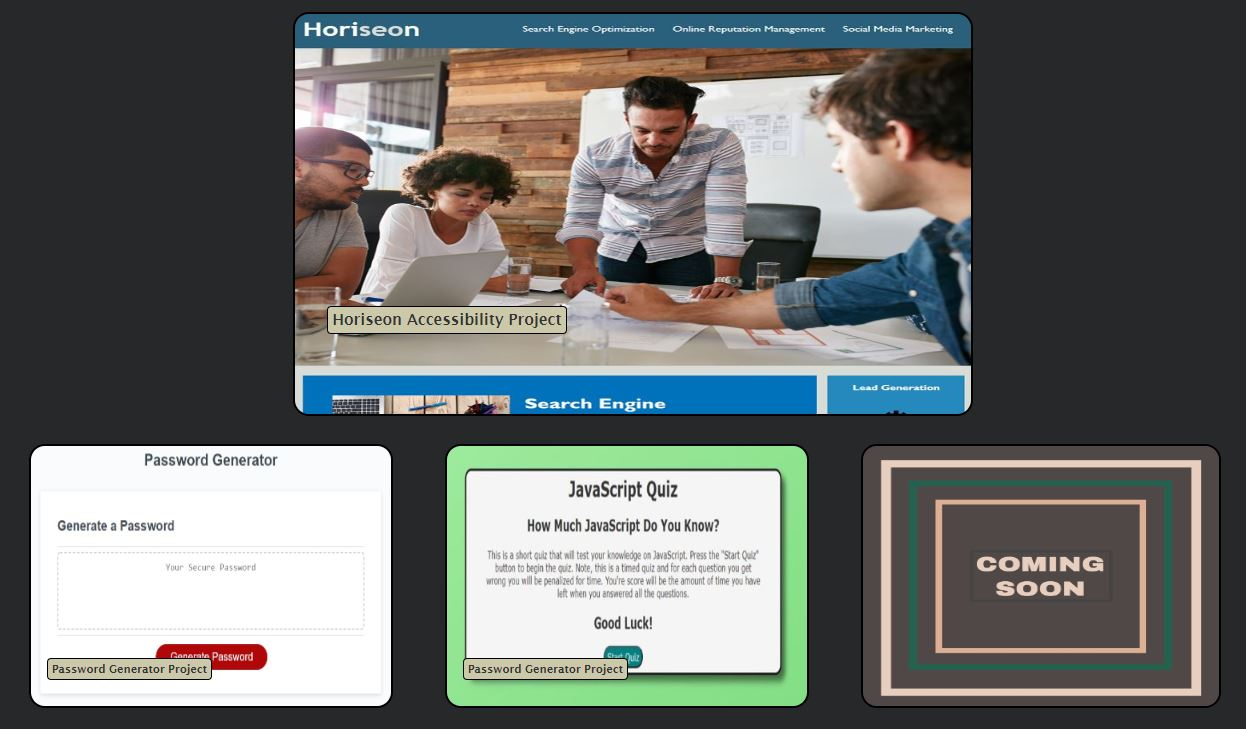
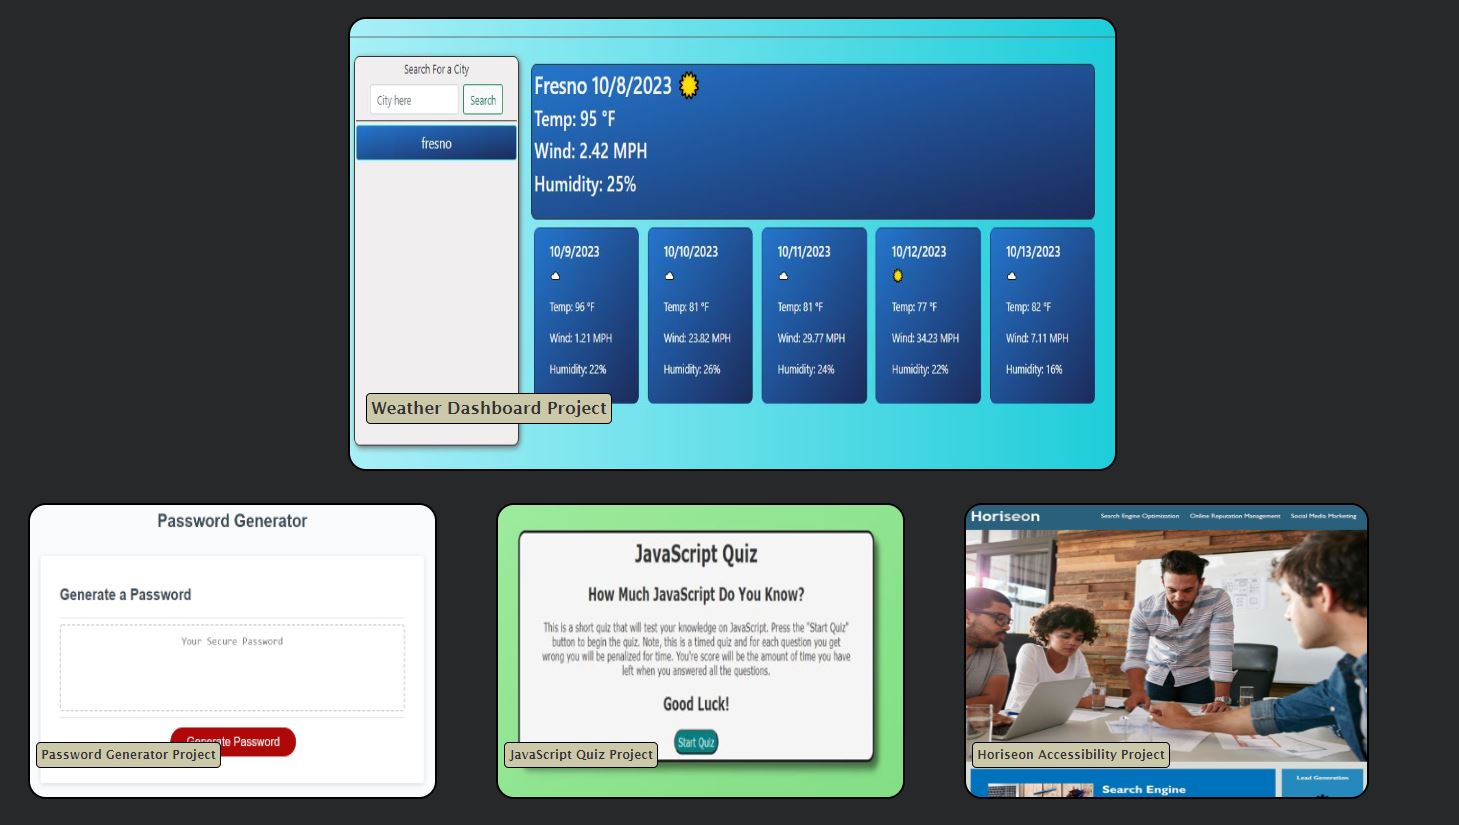
updated project section and readme. Added new images to use

diff --git a/index.html b/index.html
@@ -1,71 +1,147 @@
 <!DOCTYPE html>
 <html lang="en">
-<head>
-    <meta charset="UTF-8">
-    <meta name="viewport" content="width=device-width, initial-scale=1.0">
+  <head>
+    <meta charset="UTF-8" />
+    <meta name="viewport" content="width=device-width, initial-scale=1.0" />
     <title>Jorge's Portfolio</title>
-    <link rel="stylesheet" href="./assets/css/style.css"/>
-</head>
-<body>
-    <button> <a href="#">Back To Top</a></button>
-   <header class="top-header">
-    <div class="header-left">
-    <h1>Jorge Castro</h1>
-    <h2>UC Berkeley Student</h2>
-    </div>
-    <nav>
-            <a href="#about-me">About Me</a> 
-            <a href="#projects">Projects</a> 
-            <a href="#contact-me">Contact Me</a> 
-    </nav>
-</header>
-<div class="intro-images">
-    <img class="cover-pic" src="./assets/images/background-photo.jpg" alt="Image of Green technology graphic in a wave motion"/>
-    <img class="profile-pic" src="./assets/images/portfolio pic.jpg" alt="Profile picture of Jorge Castro"/>
-</div> 
-<section id="about-me" class="about-me">
-    <h3>About Me</h3>
-    <article>
-        <p> I am a motivated and determined 26-year-old, eager to learn. I have developed a strong affinity for web development and am committed to learning as much as I can to build my skill set in tech. I have successfully obtained my Cloud Solution Architect Associate Certification from AWS (Amazon Web Services). Fueled by my desire to learn, I am currently attending a Full Stack Engineering Bootcamp at UC Berkeley to enhance my capabilities. I am on an exciting journey to dive headfirst into the world of technology. I am a quick and efficient learner, always eager to take on new challenges and put my new skills to the test. My ultimate goal is to channel my expertise and creativity to achieve a fulfilling career in tech. I am eager to see where this next chapter of my life will take me. </p>
-    </article>
-</section>
-<section id="projects" class="project">
-    <header class="section-header">
-    <h3>Projects</h3>
+    <link rel="stylesheet" href="./assets/css/style.css" />
+  </head>
+  <body>
+    <button><a href="#">Back To Top</a></button>
+    <header class="top-header">
+      <div class="header-left">
+        <h1>Jorge Castro</h1>
+        <h2>UC Berkeley Student</h2>
+      </div>
+      <nav>
+        <a href="#about-me">About Me</a>
+        <a href="#projects">Projects</a>
+        <a href="#contact-me">Contact Me</a>
+      </nav>
     </header>
-    <div class="vertical-line"></div>
-    <div class="project-links">
+    <div class="intro-images">
+      <img
+        class="cover-pic"
+        src="./assets/images/background-photo.jpg"
+        alt="Image of Green technology graphic in a wave motion"
+      />
+      <img
+        class="profile-pic"
+        src="./assets/images/portfolio pic.jpg"
+        alt="Profile picture of Jorge Castro"
+      />
+    </div>
+    <section id="about-me" class="about-me">
+      <h3>About Me</h3>
+      <article>
+        <p>
+          I am a motivated and determined 26-year-old, eager to learn. I have
+          developed a strong affinity for web development and am committed to
+          learning as much as I can to build my skill set in tech. I have
+          successfully obtained my Cloud Solution Architect Associate
+          Certification from AWS (Amazon Web Services). Fueled by my desire to
+          learn, I am currently attending a Full Stack Engineering Bootcamp at
+          UC Berkeley to enhance my capabilities. I am on an exciting journey to
+          dive headfirst into the world of technology. I am a quick and
+          efficient learner, always eager to take on new challenges and put my
+          new skills to the test. My ultimate goal is to channel my expertise
+          and creativity to achieve a fulfilling career in tech. I am eager to
+          see where this next chapter of my life will take me.
+        </p>
+      </article>
+    </section>
+    <section id="projects" class="project">
+      <header class="section-header">
+        <h3>Projects</h3>
+      </header>
+      <div class="vertical-line"></div>
+      <div class="project-links">
         <div class="fir-pro">
-        <a class="fir-pro-img" href="https://jacastro619.github.io/horiseon-accessibility-project/"><img class="horiseon" src="./assets/images/horiseon-project.JPG"/ alt="Screenshot of Horiseon refactoring project"><h3 class="horiseon-title">Horiseon Accessibility Project</h3></a>
-        </div>    
-        <a class="pro-img" href="https://jacastro619.github.io/password-generator/"><img class="password" src="./assets/images/password project.jpg" alt="Placholder image displaying coming soon"/><h3 class="title">Password Generator Project</h3></a> 
+          <a
+            class="fir-pro-img"
+            href="https://jacastro619.github.io/weather-dashboard/"
+            ><img
+              class="weather-dashboard"
+              src="./assets/images/weather dashboard.JPG"
+              alt="Screenshot of weather dashboard project"
+            />
+            <h3 class="fir-pro-title">Weather Dashboard Project</h3></a
+          >
+        </div>
+        <a
+          class="pro-img"
+          href="https://jacastro619.github.io/password-generator/"
+          ><img
+            class="sec-pro-img"
+            src="./assets/images/password project.jpg"
+            alt="Screenshot of password generator project"
+          />
+          <h3 class="title">Password Generator Project</h3></a
+        >
 
-        <a class="pro-img" href="https://jacastro619.github.io/javascript-quiz/"><img class="js-quiz" src="./assets/images/quiz card screenshot.JPG" alt="Placholder image displaying coming soon"/><h3 class="title">Password Generator Project</h3></a>
+        <a class="pro-img" href="https://jacastro619.github.io/javascript-quiz/"
+          ><img
+            class="sec-pro-img"
+            src="./assets/images/quiz card screenshot.JPG"
+            alt="JavaScript quiz screenshot"
+          />
+          <h3 class="title">JavaScript Quiz Project</h3></a
+        >
 
-        <a class="pro-img" href="#"><img class="coming-soon" src="./assets/images/Placeholder-image.png" alt="Placholder image displaying coming soon"/></a>
+        <a
+          class="pro-img"
+          href="https://jacastro619.github.io/work-day-planner/"
+          ><img
+            class="sec-pro-img"
+            src="./assets/images/day planner.JPG"
+            alt="Work day planner screenshot"
+          />
+          <h3 class="title">Work Day Planner Project</h3></a
+        >
 
-        <a class="pro-img" href="#"><img class="coming-soon" src="./assets/images/Placeholder-image.png" alt="Placholder image displaying coming soon"/></a>
+        <a
+          class="pro-img"
+          href="https://jacastro619.github.io/horiseon-accessibility-project/"
+          ><img
+            class="sec-pro-img"
+            src="./assets/images/horiseon-project.JPG"
+            alt="Horiseon project screenshot"
+          />
+          <h3 class="title">Horiseon Accessibility Project</h3></a
+        >
 
-        <a class="pro-img" href="#"><img class="coming-soon" src="./assets/images/Placeholder-image.png" alt="Placholder image displaying coming soon"/></a> 
-    </div>
-    </div>
-    
-</section>
-<section id="contact-me" class="contact-me">
-    <header class="section-header">
+        <a class="pro-img" href="#"
+          ><img
+            class="sec-pro-img"
+            src="./assets/images/Placeholder-image.png"
+            alt="Placholder image displaying coming soon"
+        /></a>
+
+        <a class="pro-img" href="#"
+          ><img
+            class="sec-pro-img"
+            src="./assets/images/Placeholder-image.png"
+            alt="Placholder image displaying coming soon"
+        /></a>
+      </div>
+    </section>
+    <section id="contact-me" class="contact-me">
+      <header class="section-header">
         <h3>Contact Me</h3>
-    </header>
-    <div class="vertical-line"></div>
-    <div class="contact-pills">
+      </header>
+      <div class="vertical-line"></div>
+      <div class="contact-pills">
         <ul class="contact-links">
-            <a href="https://github.com/Jacastro619">GitHub</a>
-            <a href="https://www.linkedin.com/in/jorge-castro-2a9545177/">LinkedIn</a>
-            <a href="mailto:jorgecastro619@gmail.com">Send Email</a>
+          <a href="https://github.com/Jacastro619">GitHub</a>
+          <a href="https://www.linkedin.com/in/jorge-castro-2a9545177/"
+            >LinkedIn</a
+          >
+          <a href="mailto:jorgecastro619@gmail.com">Send Email</a>
         </ul>
-    </div>
-</section>
-<footer>
-    <h4>Made By Jorge Castro</h4>
-</footer>
-</body>
+      </div>
+    </section>
+    <footer>
+      <h4>Made By Jorge Castro</h4>
+    </footer>
+  </body>
 </html>

diff --git a/assets/css/style.css b/assets/css/style.css
@@ -148,12 +148,12 @@ nav a:hover {
 
 /*Project link images and titles*/
 
-.horiseon-title,
+.fir-pro-title,
 .title {
   position: absolute;
   display: flex;
-  bottom: 20%;
-  left: 5%;
+  bottom: 10%;
+  left: 2%;
   color: #333333;
   text-decoration: none;
   border: 2px solid black;
@@ -164,10 +164,9 @@ nav a:hover {
 
 .title {
   font-size: 85%;
-  bottom: 10%;
 }
 
-.horiseon {
+.weather-dashboard {
   width: 850px;
   height: 500px;
 }
@@ -181,13 +180,11 @@ nav a:hover {
 
 .fir-pro-img {
   margin: 0 20px 20px 50px;
-  width: 850px;
+  width: 1000px;
   height: 500px;
 }
 
-.password,
-.js-quiz,
-.coming-soon {
+.sec-pro-img {
   width: 450px;
   height: 325px;
 }
@@ -337,6 +334,10 @@ footer h4 {
   .coming-soon {
     width: 350px;
     height: 250px;
+  }
+
+  .pro-img {
+    margin-left: 17px;
   }
 
   .contact-links {

diff --git a/README.md b/README.md
@@ -30,7 +30,7 @@ Within this portfolio, you'll find a simple and clean design and layout. There's
 
 ---
 
-- Project Links (In project section): Here you will see images of my completed projects and some placeholders for future projects. You may click on a completed project of interest and it will direct you to that deployed project. At the moment there is only a few projects that are completed with a working link. However, as more projects are completed, they will be added to the portfolio.
+- Project Links (In project section): Here you will see images of my completed projects and some placeholders for future projects. You may click on a completed project of interest and it will direct you to that deployed project. As more projects are completed, they will be added to the portfolio.
 
 ![project section screenshot](./assets/images/projects-screenshot.JPG)
 
